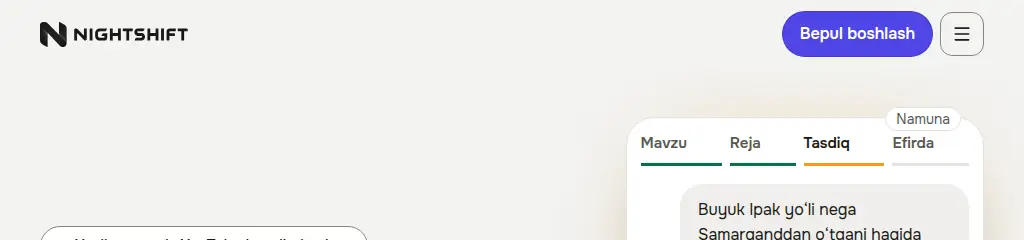
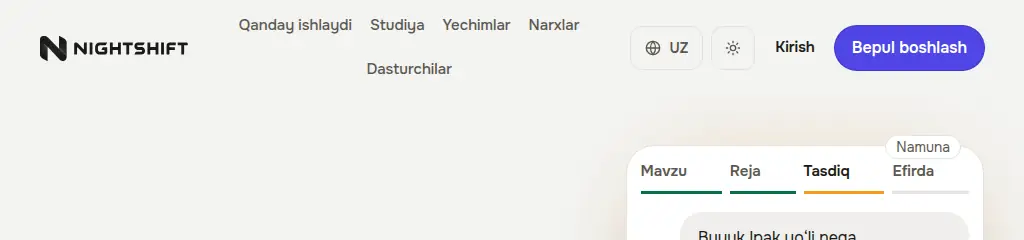
Public header: no hamburger breakpoints; the links give way on a visible second line
Reworks the previous commit: the per-language switch to the menu (1100px Uzbek, 1140px
Russian) is gone and the menu keeps its original lg breakpoint. No width or language is
named any more: from 1024px the nav is a shrinkable, wrapping flex item, so when a
language's labels do not fit one row the links take a visible second line and the row
grows (Start free and Sign in are never what gives way). Russian measures two lines from
1024 to about 1100px, Uzbek to about 1060px, English never.

- .st-header-row is min-height (was fixed height); scroll-padding-top 112px from 1024px.
- Kept: nowrap + no-shrink links and Sign in, footer six columns from 1024px, page title
  26px below 360px, wrapping button label below 400px, Russian wordmark 30px from 1280px.
- public-header.mjs: boundary widths (1023, 1139, 1140, 1279), touch emulation up to
  1024px, /terms, header-height ceiling, an app-shell comparison mode (customer and
  operator headers, bottom bar), full-page 390px screenshots.
- tests/public-header-fit.test.ts pins the language-independent contract.

Claude-Session: https://claude.ai/code/session_01U9oHiSfJHWxDDyJSd8fLSk

diff --git a/command-center/tests/public-header-fit.test.ts b/command-center/tests/public-header-fit.test.ts
@@ -5,9 +5,10 @@ import { describe, expect, it } from "vitest";
 // The public header's structural contract (tools/visual-qa/public-header.mjs measures the real thing in a browser;
 // this keeps the decision itself from being undone by an edit that looks harmless):
 //  - the links, Sign in and the key never wrap or shrink;
-//  - the full bar replaces the menu button at one breakpoint per language, and the menu button hides at exactly the
-//    widths the bar appears (so there is never a width with neither, or with both);
-//  - the longer the language's labels, the later the bar appears: en <= uz <= ru.
+//  - no language or width is named: from 1024px the bar is shown for everyone, and when a language's labels do not fit one
+//    row the links (the one part allowed to shrink) wrap onto a visible second line, so a new language cannot push
+//    Start free or Sign in off the page;
+//  - the existing menu keeps its original lg breakpoint.
 
 const root = process.cwd();
 const css = readFileSync(path.join(root, "components/site/site.css"), "utf8");
@@ -44,20 +45,20 @@ describe("public header fit", () => {
     expect(body('.st-key[data-size="sm"]')).toMatch(/min-height:\s*44px/);
   });
 
-  it("shows the bar and hides the menu button at the same width, per language", () => {
-    const barDefault = minWidthFor('html:not([lang="ru"], [lang="uz"]) :is(.st-nav, .st-header-desk) { display: flex; }');
-    const menuDefault = minWidthFor('html:not([lang="ru"], [lang="uz"]) .st-menu-root { display: none; }');
-    const barUz = minWidthFor('html[lang="uz"] :is(.st-nav, .st-header-desk) { display: flex; }');
-    const menuUz = minWidthFor('html[lang="uz"] .st-menu-root { display: none; }');
-    const barRu = minWidthFor('html[lang="ru"] :is(.st-nav, .st-header-desk) { display: flex; }');
-    const menuRu = minWidthFor('html[lang="ru"] .st-menu-root { display: none; }');
-    expect(barDefault).toBe(1024);
-    expect(menuDefault).toBe(barDefault);
-    expect(menuUz).toBe(barUz);
-    expect(menuRu).toBe(barRu);
-    // Russian has the longest labels, Uzbek next, English the shortest.
-    expect(barUz!).toBeGreaterThanOrEqual(barDefault!);
-    expect(barRu!).toBeGreaterThanOrEqual(barUz!);
+  it("lets the links, and only the links, give way: they wrap onto a visible second line (no language or width is named)", () => {
+    const at1024 = /@media \(min-width: 1024px\) \{\s*\.st-nav \{([^}]*)\}/.exec(css)?.[1] ?? "";
+    expect(at1024).toMatch(/display:\s*flex/);
+    expect(at1024).toMatch(/flex-wrap:\s*wrap/);
+    expect(at1024).toMatch(/flex:\s*0 1 auto/);
+    expect(at1024).toMatch(/min-width:\s*0/);
+    expect(css).toMatch(/@media \(min-width: 1024px\) \{ \.st-header-desk \{ display: flex; \} \}/);
+    // The row grows with the links; it is not a fixed height.
+    expect(body(".st-header-row")).toMatch(/min-height:\s*64px/);
+    expect(body(".st-header-row")).not.toMatch(/[^-]height:\s*64px/);
+    // No per-language switch between the bar and the menu, no breakpoint named for a language's header.
+    expect(css).not.toContain("st-menu-root");
+    expect(css).not.toMatch(/html:not\(\[lang/);
+    expect(css).not.toMatch(/html\[lang="[a-z]+"\] \.st-(nav|header-desk|header-row|menu)/);
   });
 
   it("hides the bar by default (the menu is what a narrow screen gets)", () => {
@@ -65,9 +66,8 @@ describe("public header fit", () => {
     expect(body(".st-header-desk")).toMatch(/display:\s*none/);
   });
 
-  it("the menu root no longer follows Tailwind's lg, which would put both on screen from 1024px", () => {
-    expect(menu).toContain('className="st-menu-root"');
-    expect(menu).not.toMatch(/className="lg:hidden"/);
+  it("the menu keeps its original breakpoint (it is not widened for any language)", () => {
+    expect(menu).toContain('className="lg:hidden"');
   });
 
   it("the footer's six columns start at 1024px, not 900px (Russian's legal links need the room)", () => {

diff --git a/command-center/components/site/site.css b/command-center/components/site/site.css
@@ -75,6 +75,8 @@
   }
 }
 html:has(.st) { scroll-padding-top: 80px; }
+/* From 1024px the bar can be two lines tall (the links wrap, see .st-nav). */
+@media (min-width: 1024px) { html:has(.st-header-row) { scroll-padding-top: 112px; } }
 @media (prefers-reduced-motion: no-preference) {
   html:has(.st) { scroll-behavior: smooth; }
 }
@@ -284,7 +286,7 @@ html:is([lang="ru"], [lang="uz"]) .st-h1 { font-size: clamp(32px, 4.6vw, 52px); 
   align-items: center;
   justify-content: space-between;
   gap: 12px;
-  height: 64px;
+  min-height: 64px;
 }
 /* The wordmark: the bare N and the lettering (components/site/Wordmark.tsx), drawn in the text
    colour. --wm-h is the N's height; the lettering is 0.49 of it. The link keeps a 44px tap target. */
@@ -335,7 +337,13 @@ html:is([lang="ru"], [lang="uz"]) .st-h1 { font-size: clamp(32px, 4.6vw, 52px); 
   .st-header-tools { gap: 4px; }
   .st-header-tools .st-key[data-size="sm"] { padding: 0 8px; }
 }
-.st-nav { display: none; min-width: 0; align-items: center; gap: 2px; }
+.st-nav { display: none; align-items: center; gap: 0 2px; }
+/* The links never wrap inside and never push Start free or Sign in off the page: when the bar is too short for a language's
+   labels (Russian's are the longest), the nav is the one part that gives way, and its links take a visible second line.
+   No width or language is named: the row simply grows. */
+@media (min-width: 1024px) {
+  .st-nav { display: flex; flex: 0 1 auto; flex-wrap: wrap; justify-content: center; min-width: 0; padding-block: 4px; }
+}
 .st-nav a {
   flex: none;
   white-space: nowrap;
@@ -366,21 +374,7 @@ html:is([lang="ru"], [lang="uz"]) .st-h1 { font-size: clamp(32px, 4.6vw, 52px); 
 }
 .st-header-tools { display: flex; align-items: center; gap: 8px; }
 .st-header-desk { display: none; align-items: center; gap: 8px; }
-/* The full bar (the links, language, theme, Sign in) replaces the menu button where it fits beside the wordmark and Start free,
-   and the key is never what gives way: from 1024px in English, 1100px in Uzbek, 1140px in Russian (its labels are the longest;
-   measured with the real fonts, with 15 to 30px to spare). Below that the links live in the menu, as on a tablet. */
-@media (min-width: 1024px) {
-  html:not([lang="ru"], [lang="uz"]) :is(.st-nav, .st-header-desk) { display: flex; }
-  html:not([lang="ru"], [lang="uz"]) .st-menu-root { display: none; }
-}
-@media (min-width: 1100px) {
-  html[lang="uz"] :is(.st-nav, .st-header-desk) { display: flex; }
-  html[lang="uz"] .st-menu-root { display: none; }
-}
-@media (min-width: 1140px) {
-  html[lang="ru"] :is(.st-nav, .st-header-desk) { display: flex; }
-  html[lang="ru"] .st-menu-root { display: none; }
-}
+@media (min-width: 1024px) { .st-header-desk { display: flex; } }
 /* From 1280px the wordmark is 36px and the view switch joins the bar; Russian's bar is 40px too wide for that, so its lockup is 30px. */
 @media (min-width: 1280px) {
   html[lang="ru"] .st-brand { --wm-h: 30px; }

diff --git a/command-center/components/site/site-next.css b/command-center/components/site/site-next.css
@@ -47,7 +47,7 @@
 }
 /* ── Frame: header, footer, shared scale ─────────────────────────────── */
 .nx .st-header { border-bottom-color: transparent; }
-.nx .st-header-row { height: 68px; }
+.nx .st-header-row { min-height: 68px; }
 .nx .st-nav a { font-weight: 500; }
 .nx .st-key { border-radius: 14px; }
 .nx .st-footer { border-top: 1px solid var(--ns-rule); }

diff --git a/command-center/components/legal/PublicMobileMenu.tsx b/command-center/components/legal/PublicMobileMenu.tsx
@@ -80,7 +80,7 @@ export function PublicMobileMenu({
 
   const n = t.landing.nav;
   return (
-    <div ref={rootRef} className="st-menu-root">
+    <div ref={rootRef} className="lg:hidden">
       <button
         ref={buttonRef}
         type="button"
